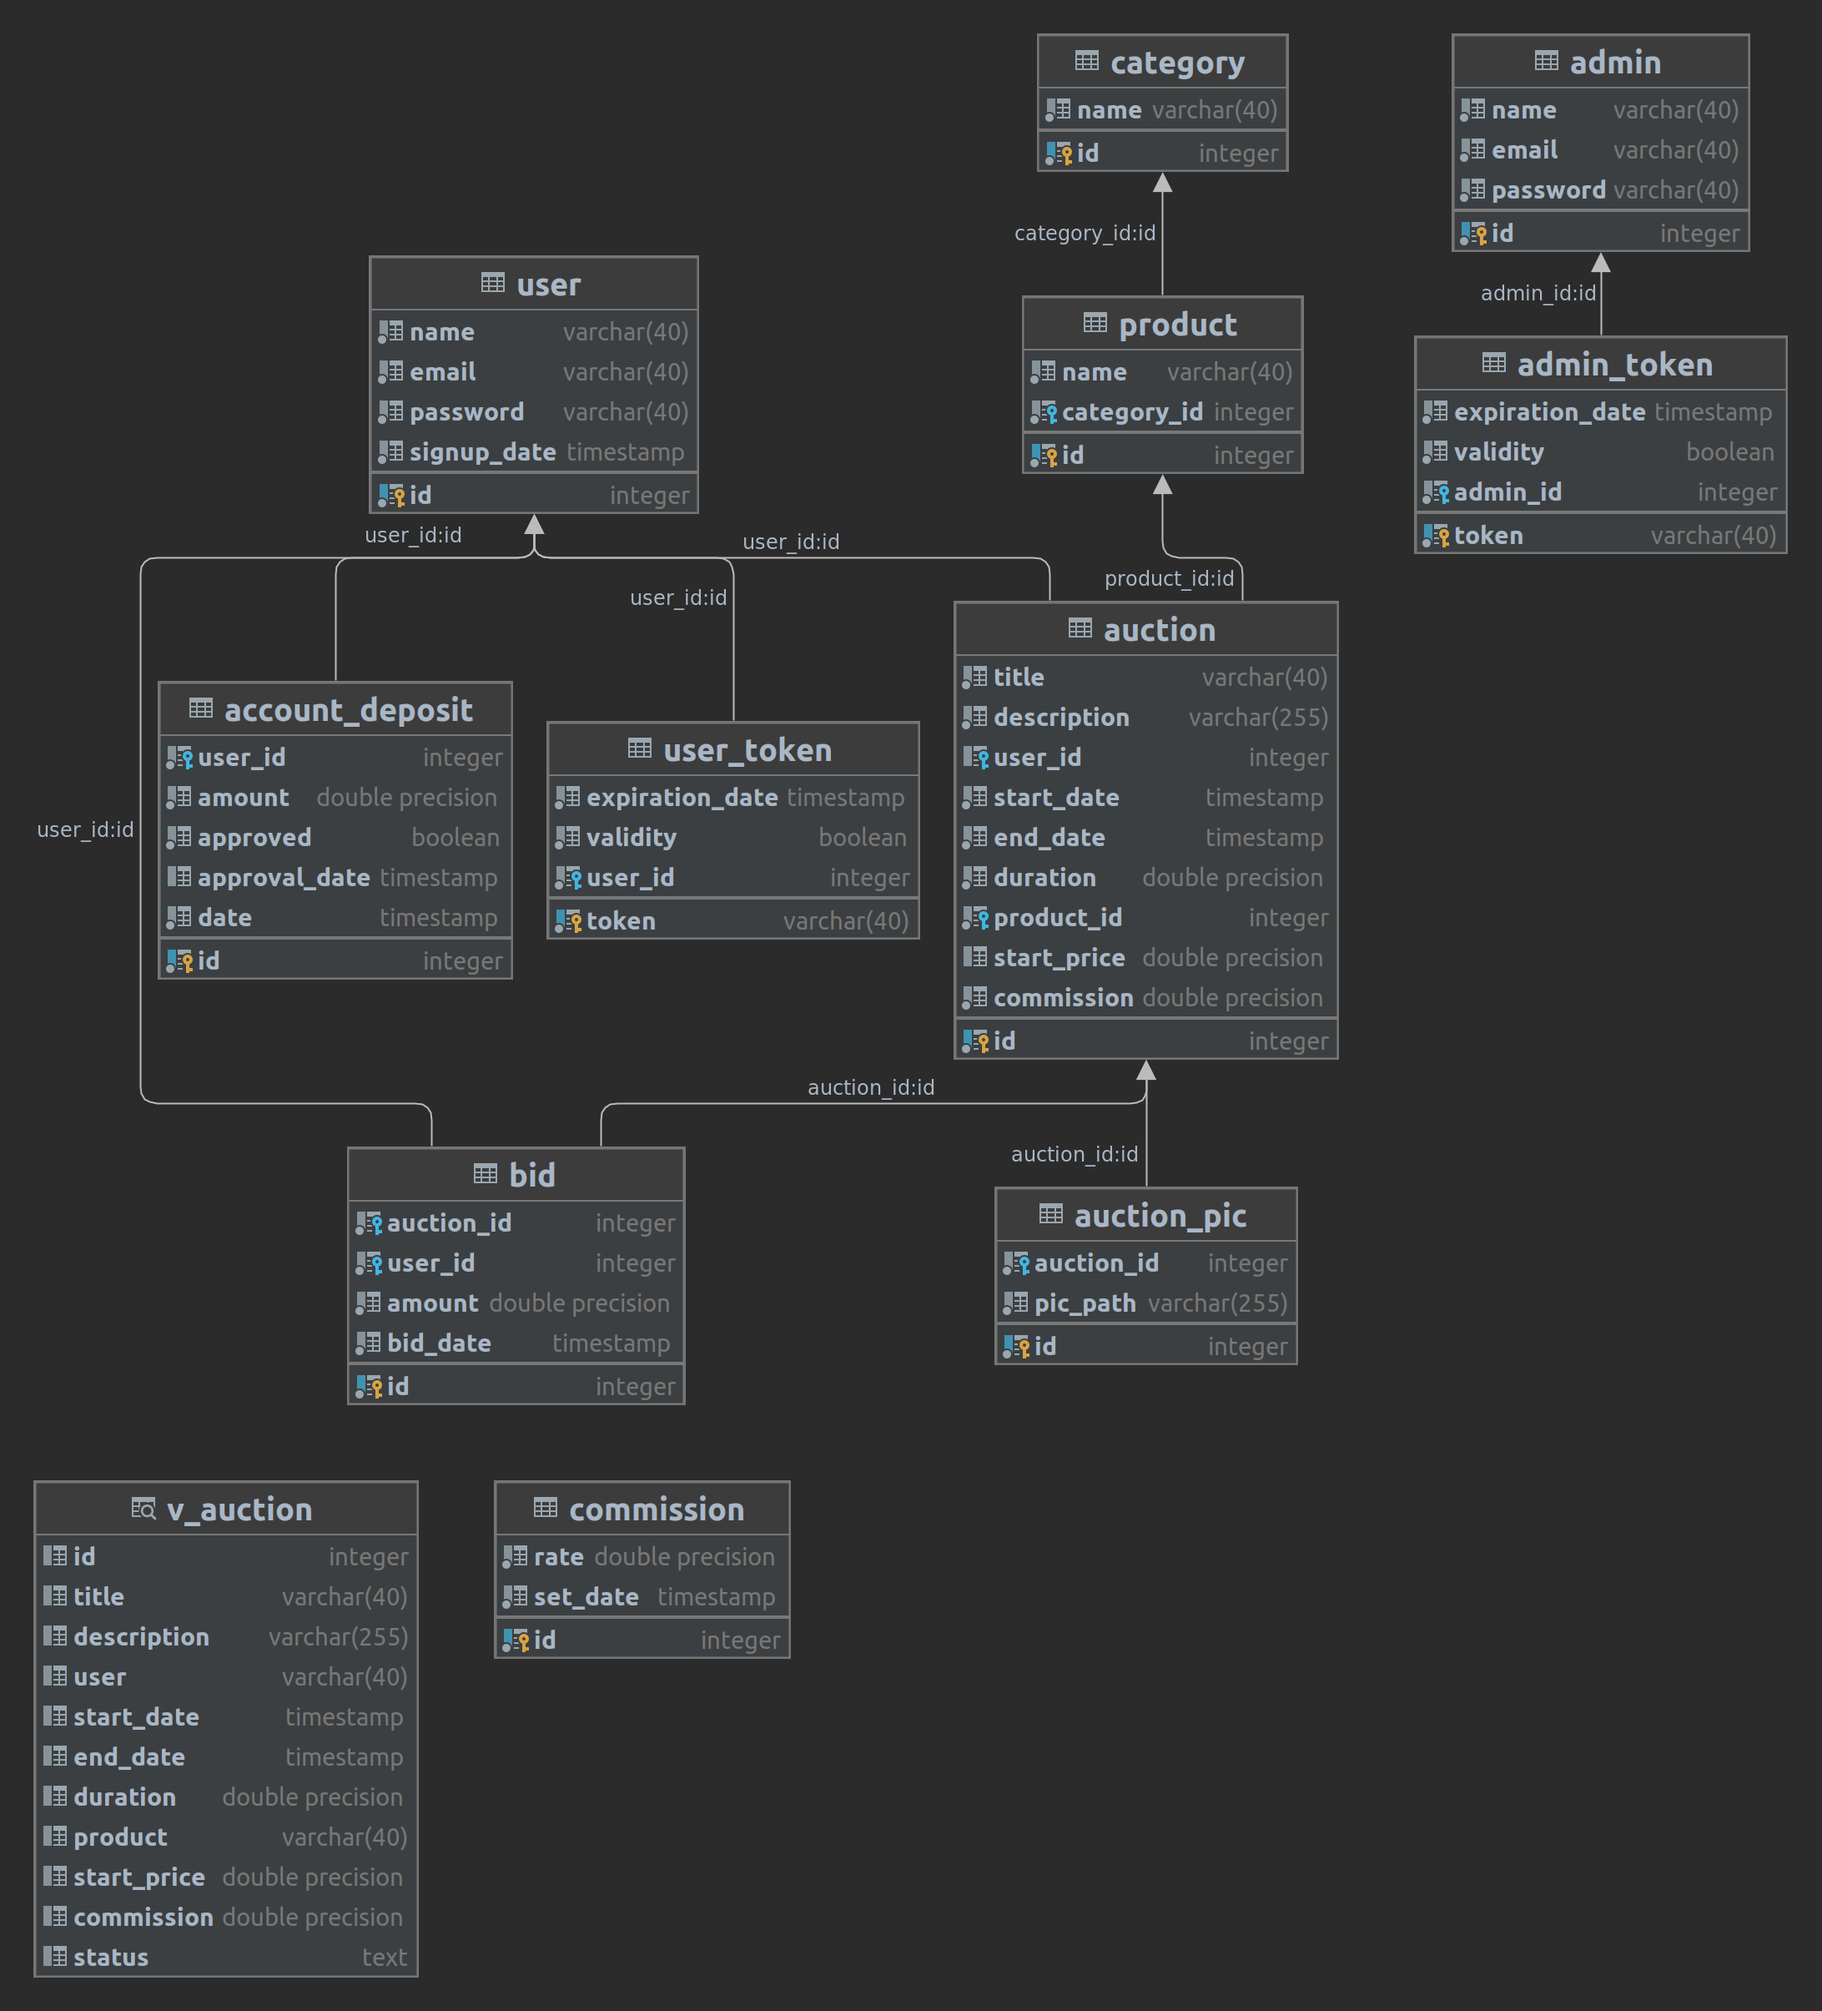
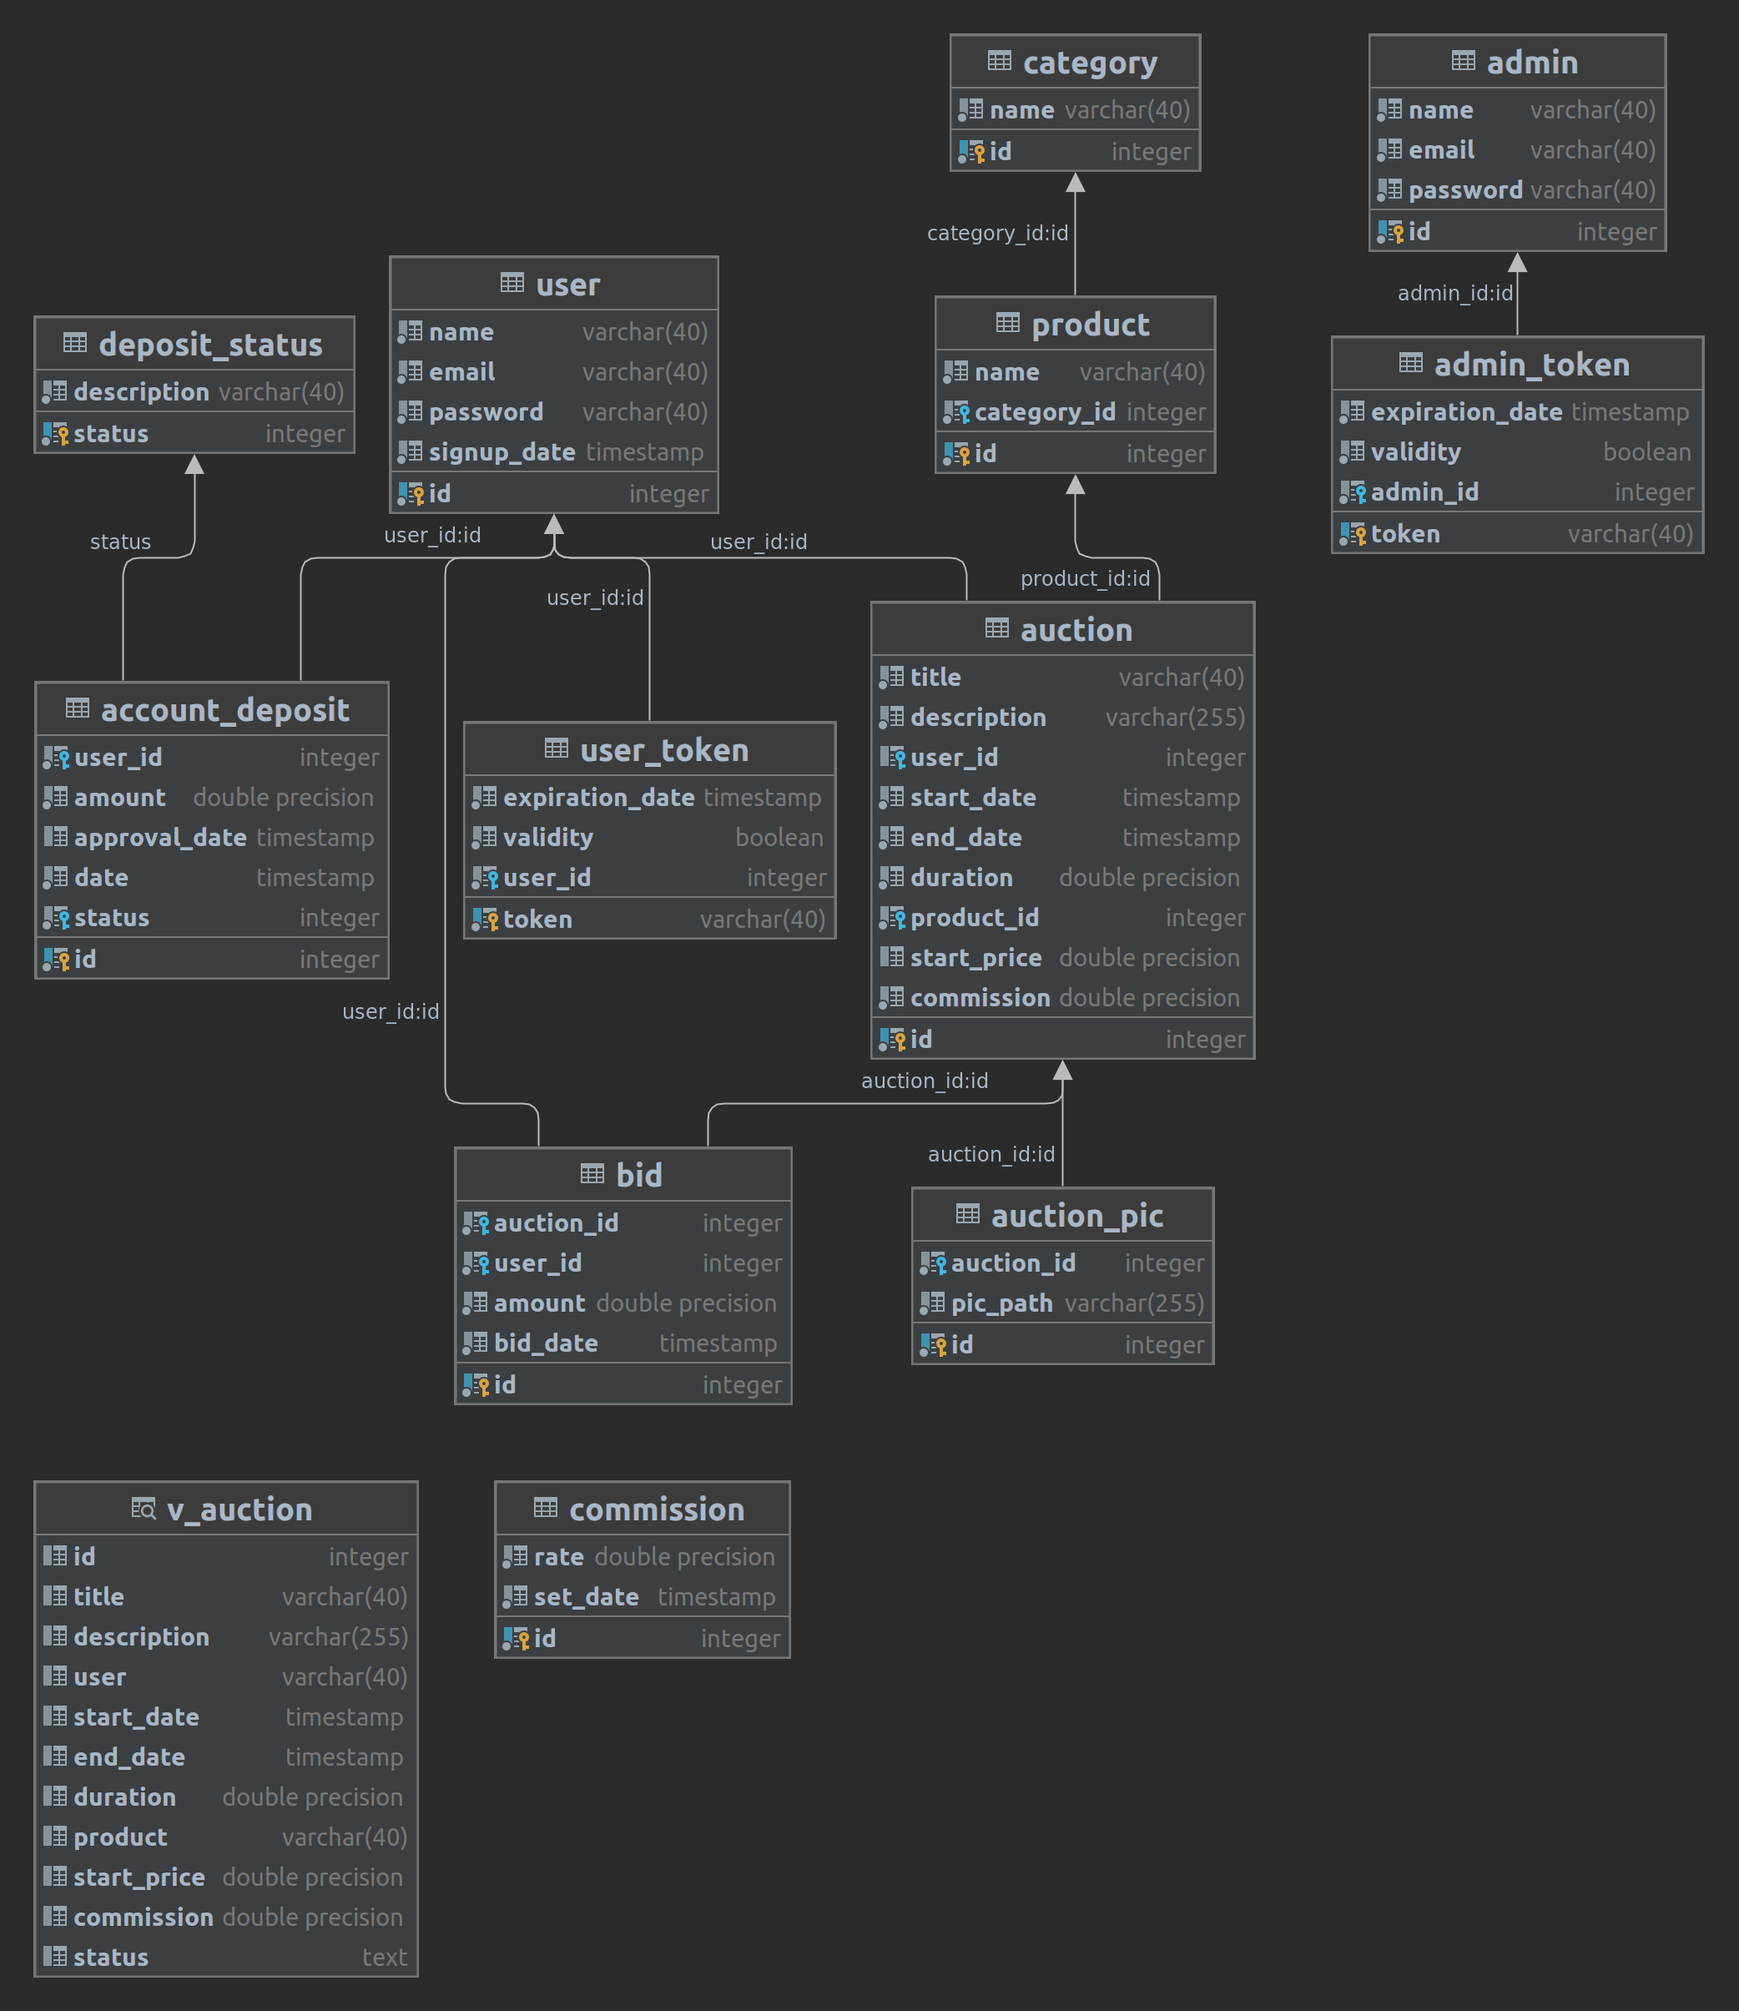
deposit status

diff --git a/auction-back-end/src/main/java/com/management/auction/models/Deposit.java b/auction-back-end/src/main/java/com/management/auction/models/Deposit.java
@@ -1,6 +1,7 @@
 
 package com.management.auction.models;
 
+import com.fasterxml.jackson.annotation.JsonProperty;
 import custom.springutils.exception.CustomException;
 import custom.springutils.model.HasFK;
 import jakarta.persistence.*;
@@ -20,7 +21,8 @@ public class Deposit extends HasFK<User> {
     double amount;
 
     @Column
-    boolean approved=false;
+    @JsonProperty(access = JsonProperty.Access.READ_ONLY)
+    Integer status = 0;
 
     @Column
     Date approvalDate;
@@ -52,12 +54,12 @@ public class Deposit extends HasFK<User> {
         this.amount = amount;
     }
 
-    public boolean isApproved() {
-        return approved;
+    public Integer getStatus() {
+        return status;
     }
 
-    public void setApproved(boolean approved) {
-        this.approved = approved;
+    public void setStatus(Integer status) {
+        this.status = status;
     }
 
     public Date getApprovalDate() {

diff --git a/auction-back-end/src/main/java/com/management/auction/services/DepositService.java b/auction-back-end/src/main/java/com/management/auction/services/DepositService.java
@@ -17,13 +17,13 @@ public class DepositService extends CrudServiceWithFK<Deposit, User, DepositRepo
     }
     public Deposit validate(Long id){
         Deposit obj=this.findById(id);
-        obj.setApproved(true);
+        obj.setStatus(20);
         obj.setApprovalDate(Date.valueOf(LocalDate.now()));
         return this.repo.save(obj);
     }
 
     public List<Deposit> notValidated () {
-        return this.repo.findByApprovedIsFalse();
+        return this.repo.findByStatus(0);
     }
 
     @Override

diff --git a/auction-back-end/src/main/java/com/management/auction/repos/DepositRepo.java b/auction-back-end/src/main/java/com/management/auction/repos/DepositRepo.java
@@ -8,5 +8,5 @@ import java.util.List;
 public interface DepositRepo extends JpaRepository<Deposit,Long> {
     List<Deposit> findByUserId(Long id);
 
-    List<Deposit> findByApprovedIsFalse();
+    List<Deposit> findByStatus(Integer status);
 }
